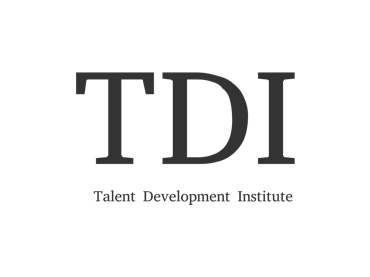
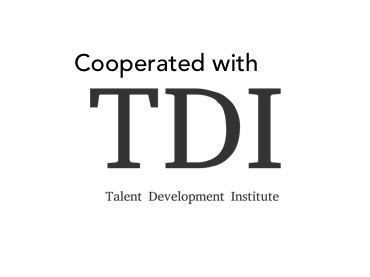
sponsor section updated

Changed region(s): [[0.1784, 0.1733, 0.8027, 0.6354], [0.2378, 0.6643, 0.8027, 0.7509]]

diff --git a/index.html b/index.html
@@ -5,9 +5,10 @@
     <meta charset="utf-8" />
     <title>MO-BCOL 2020 澳門區塊鏈奧林匹克競賽 | IBCOL 國際區塊鏈奧林匹克競賽</title>
     <link rel="icon" href="./images/logo/IBCOL-MO.png" type="image/gif" sizes="16x16">
-    <meta name="description" content="澳門區塊鏈奧林匹克競賽委員會（MO-BCOL）是國際區塊鏈奧林匹克委員會與澳門的一些學術和行業專業人士共同組成。今年的IBCOL 2020，MO-BCOL將會選出最多12支澳門代表隊伍參加競賽。"  />
+    <meta name="description"
+        content="澳門區塊鏈奧林匹克競賽委員會（MO-BCOL）是國際區塊鏈奧林匹克委員會與澳門的一些學術和行業專業人士共同組成。今年的IBCOL 2020，MO-BCOL將會選出最多12支澳門代表隊伍參加競賽。" />
     <meta name="author" content="" />
-    <meta property="og:image" content="./images/logo/IBCOL-MO.png"/>
+    <meta property="og:image" content="./images/logo/IBCOL-MO.png" />
 
     <meta name="viewport" content="width=device-width, initial-scale=1" />
 
@@ -54,8 +55,8 @@
                 </li>
                 <li><a class="NavLinkComponent colorWt" route="" href="faq-mo-bcol.html" class="">常見問題 </a></li>
                 <li><a class="NavLinkComponent colorWt" route="" href="contact-mo-bcol.html" class="">聯絡我們</a></li>
-                <li><a class="NavLinkComponent colorWt regBorder" route=""
-                        href="https://wj.qq.com/s2/6039506/da39/" target="_blank">注冊</a></li>
+                <li><a class="NavLinkComponent colorWt regBorder" route="" href="https://wj.qq.com/s2/6039506/da39/"
+                        target="_blank">注冊</a></li>
                 <li><a class="NavLinkComponent colorWt" route="" href="./en/index.html" class="">EN</a></li>
             </ul>
         </div>
@@ -80,9 +81,8 @@
         </a>
     </header>
 
-    <section id="home" class="s-home page-hero target-section" data-parallax="scroll"
-        data-image-src="images/cn.jpg" data-natural-width="3000"
-        data-natural-height="2000" data-position-y="center">
+    <section id="home" class="s-home page-hero target-section" data-parallax="scroll" data-image-src="images/cn.jpg"
+        data-natural-width="3000" data-natural-height="2000" data-position-y="center">
         <div class="grid-overlay">
             <div></div>
         </div>
@@ -106,33 +106,67 @@
 
     <section id="sponsors" class=" s-section target-section pt-0">
         <div class="row section-header">
+            <div class="photoTitle mt-5 mb-2 photoWithTextSector">
+                <h2 style="all:unset;">2020 IBCOL</h2>
+            </div>
             <div class="row">
                 <div class="block-1-3">
-                    <div class="col-block widthSmFix paddingSmFix">
-                        <a href="https://talentdevelopment.institute/" target="_blank">
+                    <div class="col-block widthSmFix paddingSmFix w100-w375">
+                        <a href="https://www.hsbc.com.hk" target="_blank">
                             <div>
-                                <img class="sponsorImg" src="images/sponsor/sp2.jpg">
+                                <img class="sponsorImg" src="images/sponsor/IBCOL-2020-Organiser-HSBC.png">
                             </div>
                         </a>
                     </div>
-                    <div class="col-block widthSmFix paddingSmFix">
-                        <a href="https://www.facebook.com/pages/category/Education/icollegehk-1878155125790458/" target="_blank">
+                    <div class="col-block widthSmFix paddingSmFix w100-w375">
+                        <a href="https://www.cb.cityu.edu.hk"
+                            target="_blank">
                             <div>
-                                <img class="sponsorImg" src="images/sponsor/sp1.jpg">
+                                <img class="sponsorImg" src="images/sponsor/IBCOL-2020-Organiser-CityU-CoB.png">
                             </div>
                         </a>
                     </div>
-                    <div class="col-block widthSmFix paddingSmFix">
+                    <div class="col-block widthSmFix paddingSmFix w100-w375">
                         <a href="https://www.hkbcs.org" target="_blank">
                             <div>
-                                <img class="sponsorImg" src="images/sponsor/sp3.jpg">
+                                <img class="sponsorImg" src="images/sponsor/IBCOL-2020-Organiser-HKBCS.png">
                             </div>
                         </a>
                     </div>
                 </div>
             </div>
         </div>
-
+        <div class="row section-header">
+            <div class="photoTitle photoWithTextSector">
+                <h2 style="all:unset;">2020 CN-BCOL</h2>
+            </div>
+            <div class="row">
+                <div class="block-1-3">
+                    <div class="col-block widthSmFix paddingSmFix w100-w375">
+                        <a href="https://talentdevelopment.institute/" target="_blank">
+                            <div>
+                                <img class="sponsorImg" src="images/sponsor/sp2.jpg">
+                            </div>
+                        </a>
+                    </div>
+                    <div class="col-block widthSmFix paddingSmFix w100-w375">
+                        <a href="https://www.facebook.com/pages/category/Education/icollegehk-1878155125790458/"
+                            target="_blank">
+                            <div>
+                                <img class="sponsorImg" src="images/sponsor/sp1.jpg">
+                            </div>
+                        </a>
+                    </div>
+                    <!-- <div class="col-block widthSmFix paddingSmFix">
+                        <a href="https://www.hkbcs.org" target="_blank">
+                            <div>
+                                <img class="sponsorImg" src="images/sponsor/sp3.jpg">
+                            </div>
+                        </a>
+                    </div> -->
+                </div>
+            </div>
+        </div>
     </section>
 
 
@@ -150,29 +184,30 @@
                     </div>
                     <div class="photoDesc justify">
                         <div class="row w100 ">
-                            <div class="col-12  ">
-                                 <b>開始接受提交報名表格：
-                               2020年5月1日 </b>
+                          
+                            <div class="col-12 pl-0-w375 ">
+                                <b>開始接受提交報名表格：
+                                    2020年5月1日 </b>
                             </div>
                             <br>
-                            <div class="col-12  mt-3 ">
+                            <div class="col-12 pl-0-w375 mt-3 ">
                                 <b> 開始接受提交項目白皮書 ：
-                               2020年5月1日 </b>
+                                    2020年5月1日 </b>
                             </div>
                             <br>
-                            <div class="col-12   mt-3">
+                            <div class="col-12  pl-0-w375 mt-3">
                                 <b>培訓課程& 輔導課程 ：
-                                2020年5月1日-2020年6月18日 </b>
+                                    2020年5月1日-2020年6月18日 </b>
                             </div>
                             <br>
-                            <div class="col-12 mt-3">
-                                <b>  宣布入選國際賽的澳門代表隊伍 ：
-                                2020年6月28日 </b>
+                            <div class="col-12 pl-0-w375 mt-3">
+                                <b> 宣布入選國際賽的澳門代表隊伍 ：
+                                    2020年6月28日 </b>
                             </div>
 
-                            <div class="col-12  mt-3">
+                            <div class="col-12 pl-0-w375 mt-3">
                                 <b>IBCOL 2020：
-                               2020年7月3日-5日 </b>
+                                    2020年7月3日-5日 </b>
                             </div>
                         </div>
                     </div>
@@ -320,10 +355,9 @@
     </section>
 
     <div class="home-content__button aboveFooterBtn">
-        <a href="https://wj.qq.com/s2/6039506/da39/" target="_blank"
-            class="btn btn--primary btn--large fs18">注冊</a>
-               <a href="https://wj.qq.com/s2/6269232/8d41/" target="_blank" class="btn btn--large fs18">發掘更多
- </a>
+        <a href="https://wj.qq.com/s2/6039506/da39/" target="_blank" class="btn btn--primary btn--large fs18">注冊</a>
+        <a href="https://wj.qq.com/s2/6269232/8d41/" target="_blank" class="btn btn--large fs18">發掘更多
+        </a>
     </div>
 
 
@@ -333,7 +367,8 @@
             <div class="col-md-4 col-sm-4 mt-3 ">
                 <div class="footerHeaderText left"><b>關於我們</b> </div>
                 <div class="">
-                    <p class="footerParaText justify">國際區塊鏈奧林匹克競賽（IBCOL）是一年一度的全球性競賽，邀請在學和剛畢業的學生參加，提供利用區塊鏈技術解決真賽世界困難的方案。 </p>
+                    <p class="footerParaText justify">
+                        國際區塊鏈奧林匹克競賽（IBCOL）是一年一度的全球性競賽，邀請在學和剛畢業的學生參加，提供利用區塊鏈技術解決真賽世界困難的方案。 </p>
                 </div>
             </div>
 
@@ -342,7 +377,7 @@
                 <div class="row">
                     <div class="col-12">
                         <p class="footerParaText justify">關注國際區塊鏈奧林匹克（IBCOL）社交媒體頻道可得到更多最新資訊
-</p>
+                        </p>
                     </div>
                     <br>
                     <div class="col-12 mb-4">

diff --git a/css/gbRemake.css b/css/gbRemake.css
@@ -576,7 +576,18 @@
     .btnFixfs {
         font-size: 12px !important;
     }
+}@media only screen and (max-width: 375px) { 
+    .pl-0-w375 {
+        padding-left: 0px;
+    }
+
+    .w100-w375 {
+        width: 100% !important;
+    }
 }
+
+
+
 
 
 
